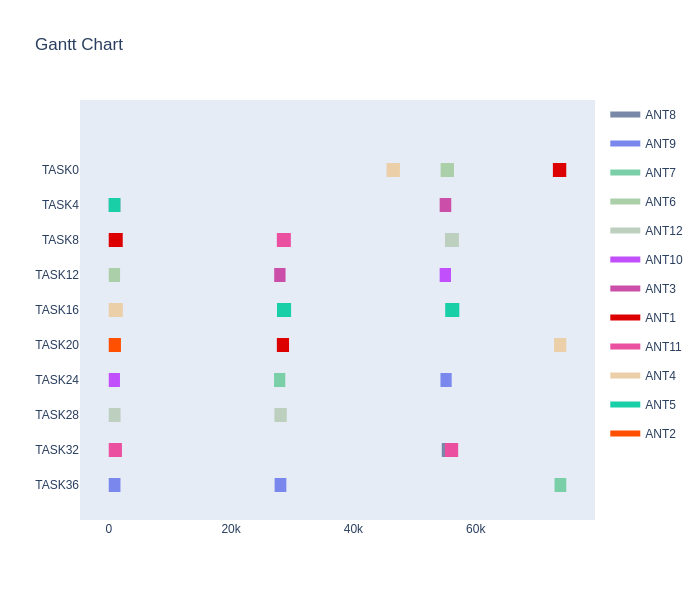
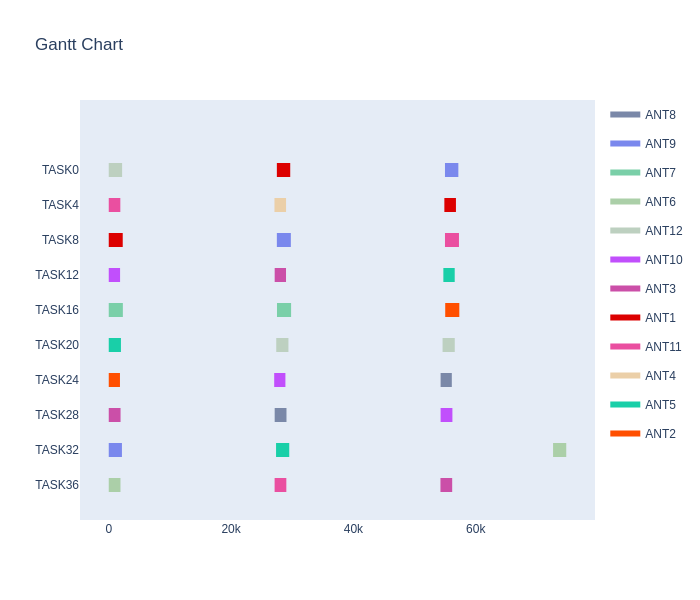
fix bug between sat name and sat id

diff --git a/src/Model1v2.0-stable/ModelCP.py b/src/Model1v2.0-stable/ModelCP.py
@@ -4,25 +4,6 @@ from ortools.sat.python import cp_model
 import parse
 
 
-"""
-class VarArraySolutionPrinter(cp_model.CpSolverSolutionCallback):
-
-    def __init__(self, variables):
-        cp_model.CpSolverSolutionCallback.__init__(self)
-        self.__variables = variables
-        self.__solution_count = 0
-
-    def on_solution_callback(self):
-        self.__solution_count += 1
-        for v in self.__variables:
-            print('%s=%i' % (v, self.Value(v)), end=' ')
-        print()
-
-    def solution_count(self):
-        return self.__solution_count
-"""
-
-"""First Version Model"""
 def SimpleSatProgram(model,dict_data,dict_non_visib,n_tasks,list_sats,list_antennes,filename):
     """ CP-SAT example to showcase calling the solver."""
 
@@ -50,7 +31,7 @@ def SimpleSatProgram(model,dict_data,dict_non_visib,n_tasks,list_sats,list_anten
     dict_max_repetive = {}
     for key in dict_duration:
         if dict_occ[key] == -1:
-            dict_max_repetive[key] = math.floor(upper_bound/(dict_duration[key]+25200))
+            dict_max_repetive[key] = math.floor(upper_bound/(dict_duration[key]+dict_min_lag[key]))
         else:
             dict_max_repetive[key] = 1
     print("@dict_max_repetive:\n",dict_max_repetive)
@@ -112,18 +93,17 @@ def SimpleSatProgram(model,dict_data,dict_non_visib,n_tasks,list_sats,list_anten
     
     print("-->CONTRAINTS<--")
 
-    print("Constraint0: Ask the end time >= start time + min time lag && start time >= 0")
-
+    """
+    print("Constraint0: Ask the start time >= 0")
+    # Belows are not used constraints, because they are limited in other ways later in constraint 4 and constraint 6
     for task_id in range(n_tasks):
         for antenne_id in list_antennes:
             for rep_id in range(dict_max_repetive[task_id]) :
                 ele = variables_matrix[task_id,antenne_id,rep_id]
-                
+                ''' 
                 bool1 = model.NewBoolVar("c0_b1_"+str(task_id)+str(antenne_id)+str(rep_id))
                 bool2 = model.NewBoolVar("c0_b2_"+str(task_id)+str(antenne_id)+str(rep_id))
                 
-                # Belows are not used constraints, because they are limited in other ways later
-                '''
                 model.Add(ele.end == ele.start + dict_min_lag[task_id]).OnlyEnforceIf(bool1)
                 model.Add(ele.end == ele.start + dict_min_lag[task_id] + int(dict_duration[task_id])).OnlyEnforceIf(bool2)
                 '''
@@ -135,21 +115,23 @@ def SimpleSatProgram(model,dict_data,dict_non_visib,n_tasks,list_sats,list_anten
                 model.Add(sum(temp_bool)==1)
                 '''                
                 # model.Add(ele.end - ele.start >= dict_min_lag[task_id])
-                model.Add(ele.start >= 0)
+                model.Add(ele.start >= lower_bound)
+    """
 
     print("Constraint1: No overlap for all intervals of each task/satellite")
     # Constraint 1 : pour chaque tache
     # Constraint 1.5 : pour chaque satellite (include constraint1)
 
     for sat_id in list_sats :
-        sat_name = "SAT"+str(sat_id)
+        # sat_name = "SAT"+str(sat_id) # this is wrong
+        sat_name = "SAT"+str(sat_id) if sat_id > 10 else "SAT0"+str(sat_id)
         all_time_in_sat = []
-        for task_id in groups[sat_name]:
+        for task_id in groups[sat_name]: # find task id by satellite name
             for antenne_id in list_antennes:
                 for rep_id in range(dict_max_repetive[task_id]):
                     ele = variables_matrix[task_id,antenne_id,rep_id]
                     all_time_in_sat.append(ele.interval)
-                    dict_occ_task[task_id].append(ele)
+                    # dict_occ_task[task_id].append(ele) # used in constraint 5, ignored for now
         model.AddNoOverlap(all_time_in_sat)
 
     print("Constraint2: No overlap for all intervals of each antenne")
@@ -176,10 +158,9 @@ def SimpleSatProgram(model,dict_data,dict_non_visib,n_tasks,list_sats,list_anten
                         time = variables_matrix[task_id,antenne_id,rep_id]
                         t1_bool = model.NewBoolVar("t1_"+str(task_id)+str(antenne_id)+str(s)+str(e))
                         t2_bool = model.NewBoolVar("t2_"+str(task_id)+str(antenne_id)+str(s)+str(e))
-                        # First Try
+                        # have to create two new values to control that there is only one true
                         model.Add(time.start > e).OnlyEnforceIf(t1_bool)
                         model.Add(time.end < s).OnlyEnforceIf(t2_bool)
-
                         t1_bool_and = model.NewBoolVar("t1_and_"+str(task_id)+str(antenne_id)+str(s)+str(e))
                         t2_bool_and = model.NewBoolVar("t2_and_"+str(task_id)+str(antenne_id)+str(s)+str(e))
                         model.Add(t1_bool_and==1).OnlyEnforceIf(t1_bool)
@@ -187,12 +168,13 @@ def SimpleSatProgram(model,dict_data,dict_non_visib,n_tasks,list_sats,list_anten
                         tmp_t1_t2 = []
                         tmp_t1_t2.append(t1_bool_and)
                         tmp_t1_t2.append(t2_bool_and)
+ 
                         model.Add(sum(tmp_t1_t2) == 1)
 
     # Contraint 4: Repetition is consider and each duration is fixed
     # pour tous les antennes de chaque tâche, il y a qu'un interval qui a une durée et les autres sont null.
     
-    # condition 1 : if we don't care about the distribution of antennes for each occurrence.
+    # condition 1 : if we don't care about the distribution of antennes for each occurrence, then commit all condition 1 below.
     print("Constraint4: The duration and repetition requirements ")
     for task_id in range(n_tasks):
         tmp_c2 = []
@@ -340,6 +322,7 @@ def SimpleSatProgram(model,dict_data,dict_non_visib,n_tasks,list_sats,list_anten
             sol_line = ''
             for assign in assigned_intervals[task_id]:
                 dict_task = {}
+                # cannot use %i to get name of sat, because SAT1 is incorrect, SAT01 is correct
                 sat_name = dict_satellites[assign.task]
                 ant_name = 'ANT%i' % assign.antenne
                 occ_name = 'OCC%i' % assign.occ

diff --git a/src/Model1v2.0-stable/main.py b/src/Model1v2.0-stable/main.py
@@ -38,7 +38,8 @@ def ModelSimple(req_file = './PIE_SXS10_data/nominal/scenario_10SAT_nominal_exam
     get sats and ants according to requirements
     """
     list_sats_names = data_df.Satellite.unique().tolist()
-    list_sats = [int(i.strip('SAT')) for i in list_sats_names]
+    # list_sats = [int(i.strip('SAT')) for i in list_sats_names]
+    list_sats = parser_req.read_list_sat()
     list_antennes = []
     for sat in list_sats_names:
         if sat in dict_sat_ants:

diff --git a/src/Model1v2.0-stable/Parser.py b/src/Model1v2.0-stable/Parser.py
@@ -19,7 +19,7 @@ class ParserForRequirements():
     def read_list_sat(self):
         #'./PIE_SXS10_data/nominal/scenario_10SAT_nominal1.txt'
         self.lines = self.open_file()
-        list_sat = self.lines[1].strip().split('\t')
+        list_sat = [int(i.strip('SAT')) for i in self.lines[1].strip().split('\t')]
         return list_sat
 
     def get_requirements_data(self):
